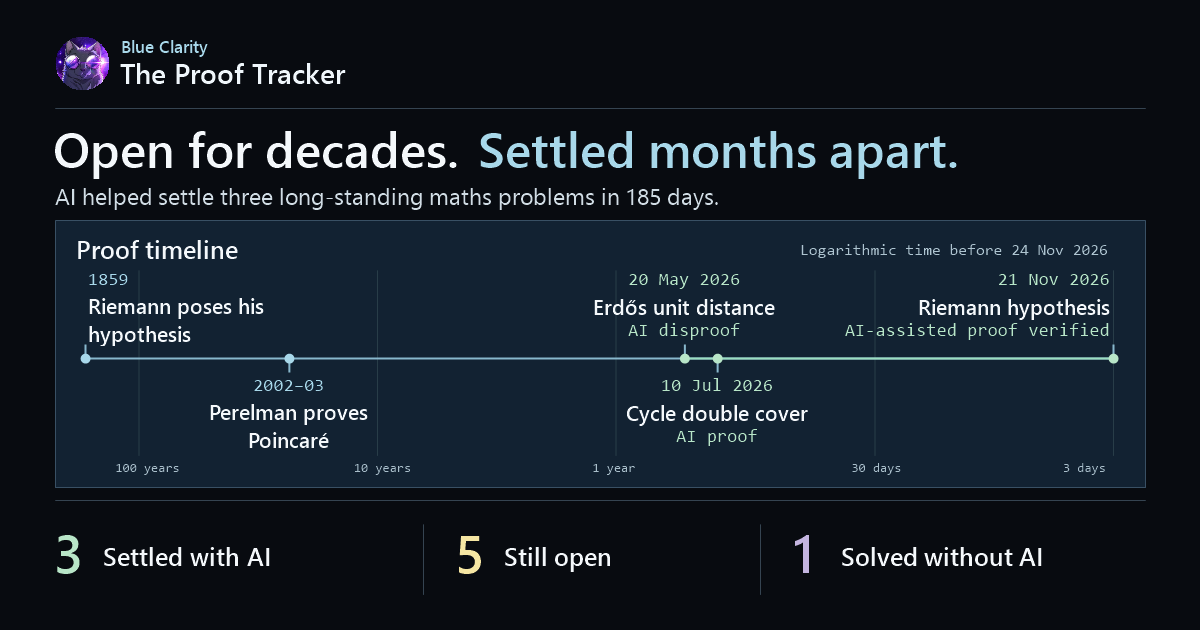
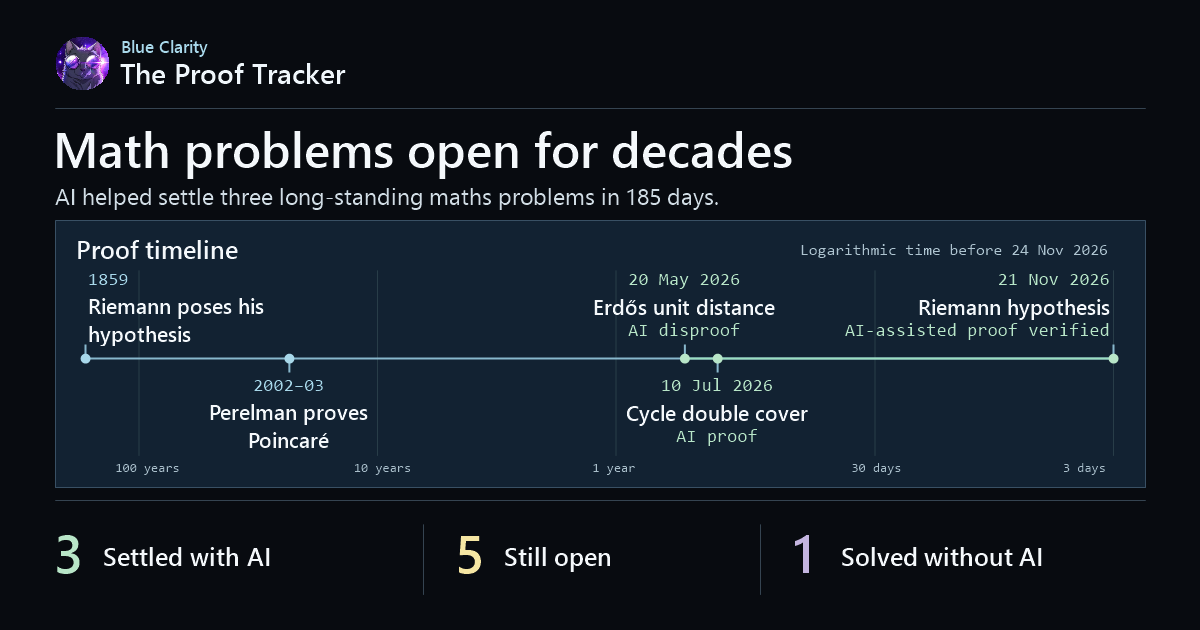
Rename the headline to Math problems open for decades

Changed region(s): [[0.0308, 0.2111, 0.8017, 0.2714]]

diff --git a/index.html b/index.html
@@ -10,18 +10,18 @@
   <meta property="og:type" content="website">
   <meta property="og:site_name" content="Blue Clarity · The Proof Tracker">
   <meta property="og:url" content="https://blueclarityone.github.io/math-timeline/">
-  <meta property="og:title" content="Open for decades. Settled months apart. | Blue Clarity">
+  <meta property="og:title" content="Math problems open for decades | Blue Clarity">
   <meta property="og:description" content="Nine famous maths problems. Two proofs and one disproof with AI. Explore what’s still open and what’s at stake.">
-  <meta property="og:image" content="https://blueclarityone.github.io/math-timeline/proof-tracker-share.png?v=log-timeline-1">
+  <meta property="og:image" content="https://blueclarityone.github.io/math-timeline/proof-tracker-share.png?v=math-problems-1">
   <meta property="og:image:type" content="image/png">
   <meta property="og:image:width" content="1200">
   <meta property="og:image:height" content="630">
   <meta property="og:image:alt" content="A logarithmic timeline from 1859 to November 2026. Three AI-assisted results arrived in a span of 185 days.">
   <meta name="twitter:creator" content="@blue_clarity">
   <meta name="twitter:card" content="summary_large_image">
-  <meta name="twitter:title" content="Open for decades. Settled months apart. | Blue Clarity">
+  <meta name="twitter:title" content="Math problems open for decades | Blue Clarity">
   <meta name="twitter:description" content="Nine famous maths problems. Two proofs and one disproof with AI. Explore what’s still open and what’s at stake.">
-  <meta name="twitter:image" content="https://blueclarityone.github.io/math-timeline/proof-tracker-share.png?v=log-timeline-1">
+  <meta name="twitter:image" content="https://blueclarityone.github.io/math-timeline/proof-tracker-share.png?v=math-problems-1">
   <meta name="twitter:image:alt" content="A logarithmic timeline from 1859 to November 2026. Three AI-assisted results arrived in a span of 185 days.">
   <link rel="icon" type="image/png" sizes="160x160" href="./clarity-mark.png?v=avatar-1">
   <link rel="preload" href="./assets/inter-latin.woff2" as="font" type="font/woff2" crossorigin>
@@ -240,7 +240,7 @@ button:focus-visible,a:focus-visible,summary:focus-visible,input:focus-visible,s
         <section class="hero" aria-labelledby="hero-title">
           <div class="hero-copy">
             <div class="hero-heading"><p class="kicker">AI &amp; mathematics</p>
-              <h1 id="hero-title">Open for decades.<br><em>Settled months apart.</em></h1></div>
+              <h1 id="hero-title">Math problems <br><em>open for decades</em></h1></div>
             <div class="hero-purpose"><p>AI helped settle three long-standing maths problems in 2026. Riemann’s question about prime numbers had been open for 167 years.</p>
               <a href="#index">Explore the problems and their impact</a></div>
           </div>
